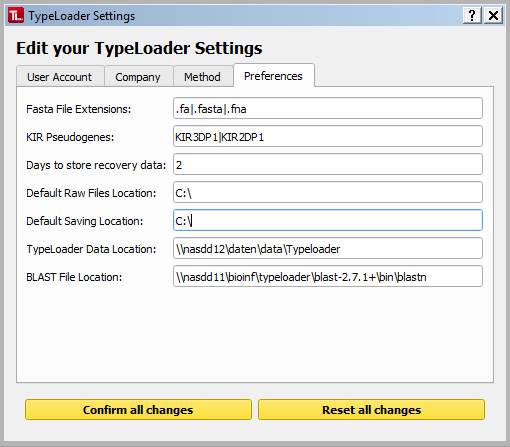
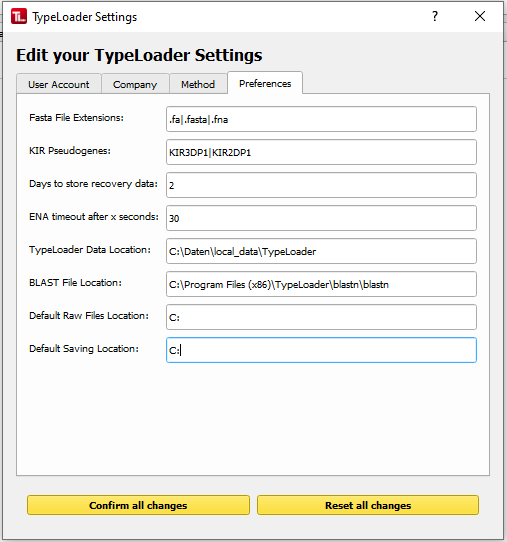
updated user manual for 2.8.2 (#159, #161)

Changed region(s): [[0.0, 0.0, 1.0, 1.0]]

diff --git a/user_manual/settings.md b/user_manual/settings.md
@@ -31,10 +31,11 @@ In the last tab, you can set your personal preferences as well as parameters for
  * **Fasta file extensions**: these file extensions are recognized as fasta files. The list must be delimited by | (no spaces).
  * **KIR pseudogenes**: these KIR genes are recognized and treated as pseudogenes. The list must be delimited by | (no spaces).
  * **Days to store recovery**: when you close TypeLoader, all *your* recovery data (log files and database dumps) *older than this many days* are deleted.
+ * **ENA timeout after x seconds:** if ENA submissions attempts do not reach ENA within this many seconds, TypeLoader will abort the attempt and show an error message. This enables you to abort if there is a problem with the ENA submission interface but no error is thrown from their side. If your connection is very slow, you might want to increase this value.
  * **TypeLoader data location**: This is the path where TypeLoader stores the data it generates. This path is set during installation and can **not** be changed afterwards.
+ * **BLAST File location**: This is where blastn is stored on your computer (on Windows, TypeLoader does this during setup). If you change this path, make sure that blastn is in the new path!
  * **Default raw files location**: Here you can enter where you usually store the raw files for TypeLoader. (When you upload files to TypeLoader, it will initially search for them here.)
  * **Default saving location**: Here you can enter where you usually want to save the files generated by TypeLoader (which will mainly be the files for IPD submission). When you download files from TypeLoader, it will initially offer to save them here.
- * **BLAST File location**: This is where blastn is stored on your computer (on Windows, TypeLoader does this during setup). If you change this path, make sure that blastn is in the new path!
 
 ## Editing settings
 
